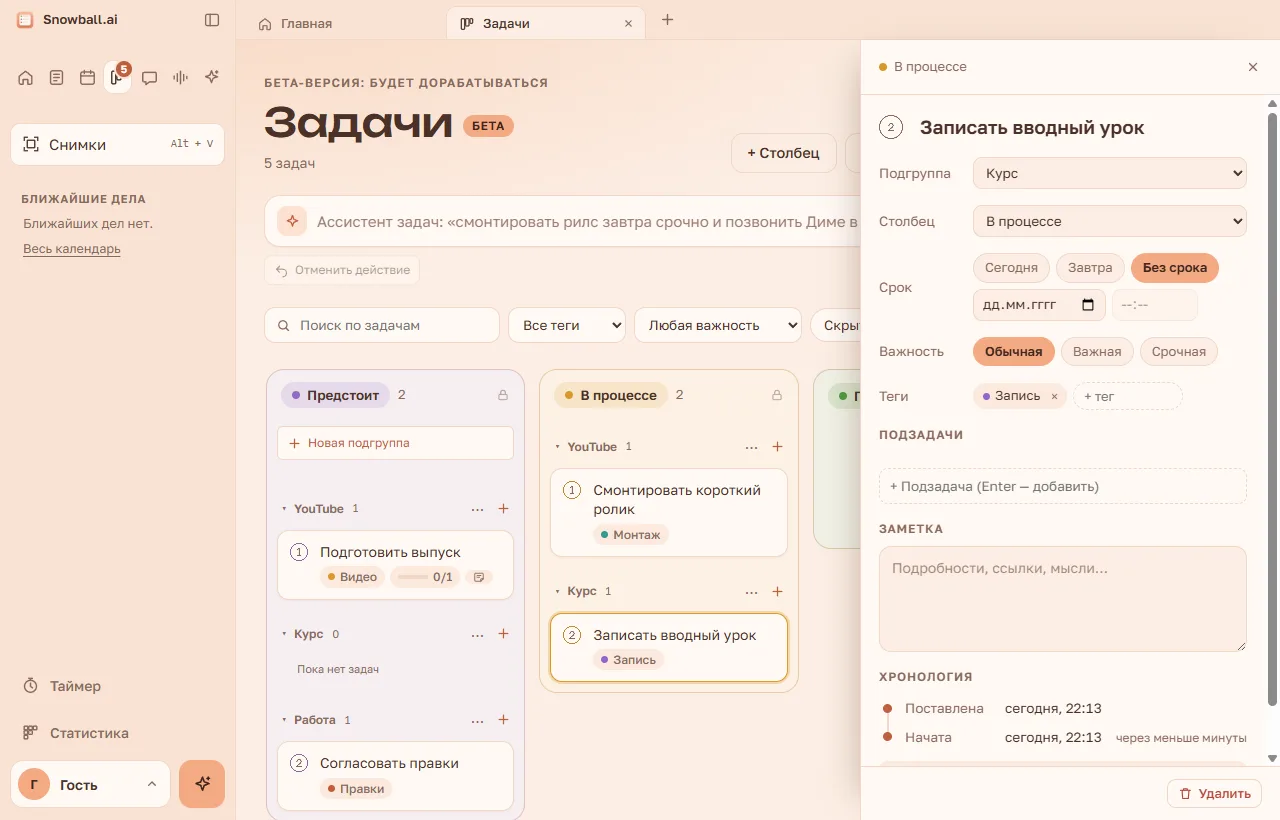
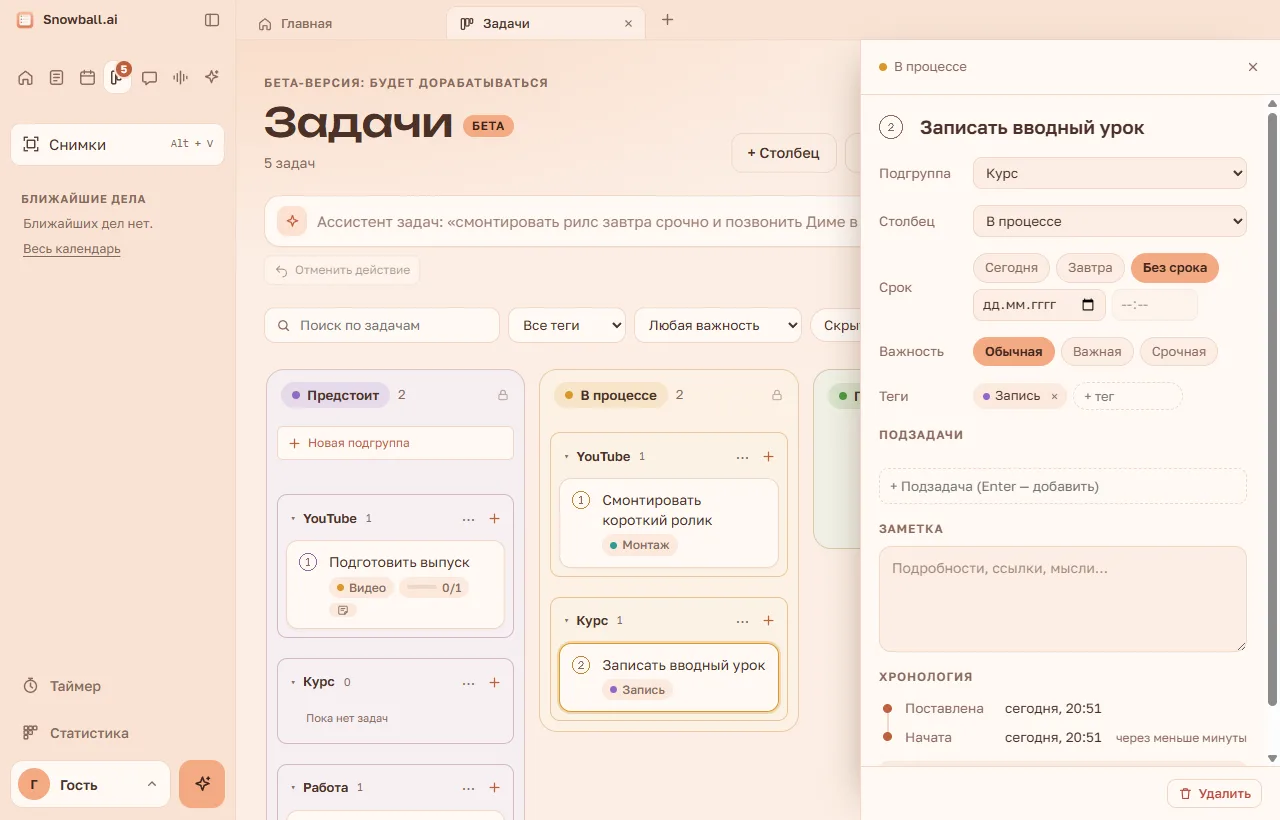
Версия 1.24.7: управление подгруппами задач

diff --git a/main.js b/main.js
@@ -1160,8 +1160,22 @@ function stubTasks(text, t) {
   }).join('\n') };
 }
 
+function stubGroupDelete(text) {
+  if (!/удал|убер/i.test(text) || !/подгрупп/i.test(text)) return null;
+  const match = /(?:удали(?:ть)?|убери(?:те)?)\s+подгрупп(?:у|ы)\s+[«"']?(.+?)[»"']?[.!?]*\s*$/i.exec(text);
+  if (!match) return { error: 'Укажите точное название: «удали подгруппу YouTube».' };
+  const name = match[1].replace(/[»"']+$/, '').trim();
+  const group = store.groupsView().find(g => g.name.toLocaleLowerCase('ru') === name.toLocaleLowerCase('ru'));
+  return group ? { group } : { error: 'Подгруппа с таким названием не найдена. Укажите точное название.' };
+}
 function stubAnswer(last) {
   const t = last.toLowerCase();
+  const deletion = stubGroupDelete(last);
+  if (deletion) {
+    if (deletion.error) return { text: deletion.error };
+    const r = runTool('task_group_delete', deletion.group);
+    return { text: r.output, action: r.action };
+  }
   if (/таймер|фокус/.test(t)) {
     if (/останов|выключ|стоп|отмени|сбрось|убери/.test(t)) {
       const was = timer.state;
@@ -1290,6 +1304,7 @@ const SYSTEM_PROMPT = [
   'Напоминание: если пользователь о нём не сказал, ставь remind 60 (за час) и одной короткой фразой сообщи, что напомнишь за час, а время напоминания можно поменять. Если просит другое — ставь как просит, «без напоминания» — 0. Даты считай от текущего момента из строки «Сейчас».',
   'Ещё у пользователя есть доска «Задачи». Столбцы: todo — «Предстоит», doing — «В процессе», done — «Готово» и, может быть, свои столбцы пользователя (их id и названия — в tasks_list). tasks_list показывает столбцы и все задачи, task_add добавляет, task_update меняет задачу или переносит в другой столбец, task_delete удаляет. Как и с календарём, изменения показываются карточкой, если результат так говорит. Название задачи — коротко, суть в нескольких словах, без слов про срок и срочность. Срок (due, YYYY-MM-DD) и время (time, HH:MM) ставь, только если их назвали. Важность priority: 2 — срочно, 1 — важно, 0 — обычно, если об этом не сказано. Теги — 1–2 коротких слова по смыслу, лучше из тех, что уже есть у задач. number — порядковый номер внутри своего столбца. В каждом столбце нумерация начинается с 1 и меняется после переносов и удаления. Идентичность задачи — её id, а не номер. При обращении по номеру учитывай исходный столбец (status); если номер встречается в нескольких столбцах, а исходный столбец не указан, обязательно уточни и ничего не меняй. Например: «перенеси задачу 2 из Предстоит в В процессе» — искать number=2, status=todo; doing здесь только назначение. Подзадачи могут иметь номера 1.1, 1.2. groups в tasks_list — подгруппы; groupId сохраняется при смене столбца, если пользователь не попросил поменять подгруппу. «Задача 3», «задача № 3», «задача номер 3», «№3», «#3» означают number=3, а не третью строку списка. Чтобы изменить или удалить задачу, сначала найди её id по number через tasks_list; для архивной задачи — tasks_archive_search с запросом «№ 3». Если номера нет, сообщи об этом, не выбирай похожую задачу.',
   'Есть таймер для фокуса: timer_start сразу запускает его на нужное число минут (от 1 до 240), timer_stop останавливает. Он не привязан к задачам и делам. Запустив, коротко скажи, во сколько он закончится.',
+  'По просьбе удалить подгруппу найди её точные id и название в groups через tasks_list и вызови task_group_delete. Удаляется подгруппа во всех столбцах, задачи и архив сохраняются без неё. Если название неоднозначно, уточни. Не удаляй задачи вместо подгруппы.',
   'Программа устроена как браузер: вверху вкладки. open_tabs сразу открывает нужные вкладки: home — «Главная», prompts — «Промты», calendar — «Календарь», tasks — «Задачи», llm — новый разговор в отдельной вкладке, transcribe — «Транскрибация» (текст, тайминги и субтитры из аудио и видео), generator — «Генератор» (картинки и видео, пока в разработке), stats — «Статистика». Если просят открыть, вызови open_tabs и коротко скажи, что открыл.',
   'На странице «Промты» есть вкладка «Скиллы»: там пользователь хранит скиллы — инструкции для ИИ-ассистентов (файл .md или архив .zip либо .skill). skills_list показывает их id, название и текущий тип; skill_read даёт сохранённый текст главного файла, состав архива и revision. Если пользователь просит перепроверить или изменить категорию уже сохранённого скилла, найди его через skills_list, прочитай через skill_read и только после этого вызови skill_set_type с тем же revision, подходящим типом и короткой причиной. Типы: static — картинки, video — видео, audio — звук, музыка и речь, text — тексты и сценарии, code — программирование и технические задачи. Если пользователь приложил новый файл скилла (в сообщении есть строка «ссылка для skill_add: …») и просит сохранить его («закинь в хранилище», «сохрани скилл»), прочитай файл и вызови skill_add: название — из name в файле или коротко по смыслу, тип — один из пяти перечисленных, описание — 5–6 простых предложений по-русски: что это за скилл, для чего, как работает и что внутри.',
   'Промты пользователя ты пока не видишь и сохранять не умеешь. Если об этом просят, скажи, что это появится позже, а пока промт можно скопировать кнопкой «Копировать» и добавить через «Добавить промт» в разделе «Промты».'
@@ -1393,6 +1408,11 @@ const TOOLS = [
     parameters: { type: 'object', additionalProperties: false, required: ['id'], properties: { id: { type: 'string', description: 'id задачи из tasks_list' } } }
   },
   {
+    name: 'task_group_delete',
+    description: 'Удаляет подгруппу во всех столбцах; задачи, в том числе архивные, сохраняются без подгруппы. Сначала найди её в groups через tasks_list.',
+    parameters: { type: 'object', additionalProperties: false, required: ['id', 'name'], properties: { id: { type: 'string', description: 'id подгруппы из tasks_list' }, name: { type: 'string', description: 'Точное название подгруппы из tasks_list' } } }
+  },
+  {
     name: 'open_tabs',
     description: 'Сразу открывает вкладки программы вверху окна. Если такая вкладка уже открыта, переключается на неё; llm каждый раз открывает новый разговор.',
     parameters: {
@@ -1490,6 +1510,11 @@ function runTool(name, input) {
     return { output: after('Удалить из календаря: ' + eventLine(event)), action: { kind: 'calendar-delete', title: event.title, event } };
   }
   if (name === 'tasks_list') return { output: tasksForModel() };
+  if (name === 'task_group_delete') {
+    const group = store.groupsView().find(g => g.id === a.id && g.name === a.name);
+    if (!group) return { output: 'Подгруппа не найдена или изменилась. Получи свежий список через tasks_list.', error: true };
+    return { output: after('Удалить подгруппу «' + group.name + '» во всех столбцах; задачи останутся без подгруппы'), action: { kind: 'group-delete', title: group.name, group } };
+  }
   if (name === 'skills_list') {
     const list = store.skillsView().map((s) => ({ id: s.id, title: s.title, type: s.type, file: s.file.name, desc: s.desc.slice(0, 300) }));
     return { output: list.length ? JSON.stringify(list) : 'Скиллов пока нет.' };
@@ -2217,6 +2242,7 @@ handle('task-delete', async (id) => { await store.deleteTask(id); return ok(); }
 handle('task-restore', async (t) => { await store.putTask(t); return ok(); });
 handle('task-group-add', async (name) => { const group = await store.addTaskGroup(name); return ok({ groupId: group.id }); });
 handle('task-group-rename', async (id, name, expectedName) => { await store.renameTaskGroup(id, name, expectedName); return ok(); });
+handle('task-group-delete', async (id, expectedName) => { await store.deleteTaskGroup(id, expectedName); return ok(); });
 // The user's own columns between «В процессе» and «Готово».
 handle('column-add', async (name) => { const col = await store.addColumn(name); return ok({ columnId: col.id }); });
 handle('column-rename', async (id, name) => { await store.renameColumn(id, name); return ok(); });
@@ -2253,6 +2279,7 @@ const TASKS_PROMPT = [
   'Название — суть в 2–6 словах, с большой буквы, без слов про срок и срочность. Срок (due, YYYY-MM-DD) и время (time, HH:MM) ставь, только если их назвали; даты считай от строки «Сейчас». Важность priority: 2 — срочно (срочно, горит, asap), 1 — важно, 0 — обычно, если ничего такого не сказано. Теги — 1–2 коротких слова по смыслу, лучше из тех, что уже есть у задач в tasks_list: «смонтировать рилс» → «Монтаж», «начать вёрстку сайта» → «Сайт».',
   'number — порядковый номер внутри своего столбца. В каждом столбце нумерация начинается с 1 и меняется после переносов и удаления. Идентичность задачи — её id, а не номер. При обращении по номеру учитывай исходный столбец (status); если номер встречается в нескольких столбцах, а исходный столбец не указан, обязательно уточни и ничего не меняй. Например: «перенеси задачу 2 из Предстоит в В процессе» — искать number=2, status=todo; doing здесь только назначение. Подзадачи могут иметь номера 1.1, 1.2. groups в tasks_list — подгруппы; groupId сохраняется при смене столбца, если пользователь не попросил поменять подгруппу. «Задача 3», «задача № 3», «задача номер 3», «№3», «#3» означают number=3, а не третью строку списка. Чтобы изменить, перенести, отметить или удалить задачу, сначала найди её id по number через tasks_list; если её нет на доске, проверь tasks_archive_search с запросом «№ 3». Если такого номера нет, сообщи об этом и ничего не меняй. Всегда получай свежий список перед действиями: номер меняется после переноса и удаления. «Сделал …», «готово …» — перенеси задачу в done. subtasks_add добавляет шаги внутри задачи («разбей … на шаги» — 3–6 конкретных шагов), subtask_done отмечает шаг, subtask_delete удаляет шаги (id шагов — в tasks_list).',
   'Выполненные задачи уходят в архив: tasks_list его не показывает. «Найди в архиве …», «что я делал на прошлой неделе» — tasks_archive_search. «Убери выполненные в архив», «очисти готово» — tasks_archive_done.',
+  'По просьбе удалить подгруппу найди её id и точное название в groups через tasks_list и вызови task_group_delete. Подгруппа исчезает во всех столбцах, задачи и архив сохраняются. При неоднозначном названии уточни. Не удаляй задачи вместо подгруппы.',
   'Если просят не про задачи (календарь, промты, вкладки), коротко скажи, что это умеет маленькое окно ассистента (звёздочка внизу слева) или раздел LLM.',
   'Ответ — одна-две короткие фразы по-русски без разметки: что сделано. Например: «Добавил 2 задачи: «Смонтировать рилс» на завтра, срочная; «Позвонить Диме» на пятницу.»'
 ].join('\n\n');
@@ -2260,6 +2287,7 @@ const sameTool = (name, description) => Object.assign({}, TOOLS.find((t) => t.na
 const TASK_TOOLS = [
   { name: 'tasks_move', description: 'Переносит выбранные задачи одним действием. Все id заранее возьми из одного tasks_list. null сохраняет столбец или подгруппу; пустой groupId убирает подгруппу.', parameters: { type: 'object', additionalProperties: false, required: ['ids', 'status', 'groupId'], properties: { ids: { type: 'array', items: { type: 'string' }, minItems: 1, maxItems: 500 }, status: { type: ['string', 'null'] }, groupId: { type: ['string', 'null'] } } } },
   sameTool('tasks_list'),
+  sameTool('task_group_delete'),
   sameTool('tasks_archive_search'),
   { name: 'tasks_archive_done', description: 'Убирает все задачи из «Готово» в архив.', parameters: { type: 'object', additionalProperties: false, required: [], properties: {} } },
   sameTool('task_add', 'Добавляет задачу на доску (сразу, без подтверждения).'),
@@ -2292,6 +2320,12 @@ async function runTaskTool(name, input, log) {
     return 'Перемещено задач: ' + result.tasks.length + '.';
   }
   if (name === 'tasks_list') return tasksForModel();
+  if (name === 'task_group_delete') {
+    const group = store.groupsView().find(g => g.id === a.id && g.name === a.name);
+    if (!group) return 'Подгруппа не найдена или изменилась. Получи свежий список через tasks_list.';
+    await store.deleteTaskGroup(group.id, group.name, log);
+    return 'Подгруппа «' + group.name + '» удалена во всех столбцах. Задачи и архив сохранены без подгруппы.';
+  }
   if (name === 'tasks_archive_search') return archiveForModel(a.query);
   if (name === 'tasks_archive_done') {
     const ids = await store.archiveDone(null, log);
@@ -2514,6 +2548,8 @@ async function numericTaskMove(text, log) {
 }
 async function stubTasksAssistant(text, log) {
   const low = ' ' + text.toLowerCase().replace(/ё/g, 'е') + ' ';
+  const deletion = stubGroupDelete(text);
+  if (deletion) return deletion.error || await runTaskTool('task_group_delete', deletion.group, log);
   let t;
   const refs = taskReferences(text);
   if (refs.length) {
@@ -3198,6 +3234,10 @@ async function applyAction(action) {
   if (action.kind === 'task-delete') {
     const gone = await store.deleteTask(action.task.id, JSON.stringify(action.task), changes);
     if (!gone) throw userError('Этой задачи уже нет на доске.');
+    return { undo: { tasks: changes }, extra: {} };
+  }
+  if (action.kind === 'group-delete') {
+    await store.deleteTaskGroup(action.group.id, action.group.name, changes);
     return { undo: { tasks: changes }, extra: {} };
   }
   if (action.kind === 'skill-add') {

diff --git a/src/app.js b/src/app.js
@@ -1428,6 +1428,7 @@
     else if (e.key === "ArrowDown" || e.key === "ArrowUp") { e.preventDefault(); items[(i + (e.key === "ArrowDown" ? 1 : -1) + items.length) % items.length].focus(); }
   });
   document.addEventListener("mousedown", function (e) {
+    if (!e.target.closest(".task-group-menu")) document.querySelectorAll(".task-group-pop:not([hidden])").forEach(function (menu) { menu.hidden = true; menu.parentElement.querySelector(".task-group-rename").setAttribute("aria-expanded", "false"); });
     if (!els.tabMenu.hidden && !els.tabMenu.contains(e.target) && !els.tabPlus.contains(e.target)) setTabMenu(false);
   });
   // The assistant asked to open tabs ("открой календарь и генератор"): all open, the first one is shown.
@@ -3283,6 +3284,11 @@
     return h("div", { class: "act-card" + (a.status && a.status !== "busy" ? " settled" : "") }, kids);
   }
   function actionCard(msg, a) {
+    if (a.kind === "group-delete") {
+      var kids = [h("div", { class: "act-head" }, icon("trash"), h("span", { text: "Удалить подгруппу «" + a.title + "»?" })), h("div", { class: "act-when", text: "Подгруппа исчезнет во всех столбцах. Задачи и архив сохранятся без подгруппы." })];
+      kids.push(cardFooter(msg, a, "Подгруппа удалена", "Отменено, подгруппа сохранена") || cardButtons(msg, a, "Удалить", true));
+      return h("div", { class: "act-card" + (a.status && a.status !== "busy" ? " settled" : "") }, kids);
+    }
     if (/^calendar-/.test(a.kind)) return calendarCard(msg, a);
     if (/^task-/.test(a.kind)) return taskCard(msg, a);
     if (a.kind === "skill-add") return skillCard(msg, a);
@@ -3312,7 +3318,7 @@
   }
   var DONE_TOASTS = {
     "calendar-add": "Дело «%» добавлено в календарь", "calendar-update": "Дело «%» изменено", "calendar-delete": "Дело «%» удалено",
-    "task-add": "Задача «%» добавлена", "task-update": "Задача «%» изменена", "task-delete": "Задача «%» удалена", "create-prompt": "Промт «%» добавлен",
+    "task-add": "Задача «%» добавлена", "task-update": "Задача «%» изменена", "task-delete": "Задача «%» удалена", "group-delete": "Подгруппа «%» удалена", "create-prompt": "Промт «%» добавлен",
     "skill-add": "Скилл «%» сохранён во вкладку «Скиллы»", "skill-set-type": "Категория скилла «%» изменена"
   };
   function decide(msg, a, accept) {
@@ -3411,6 +3417,7 @@
       : a.kind === "task-add" ? "Добавить задачу «" + t.title + "» в «" + colName(t.status) + "»"
       : a.kind === "task-update" ? "Изменить задачу «" + t.title + "»: столбец «" + colName(t.status) + "»"
       : a.kind === "task-delete" ? "Удалить задачу «" + t.title + "»"
+      : a.kind === "group-delete" ? "Удалить подгруппу «" + a.title + "», задачи сохранятся"
       : a.kind === "skill-add" ? "Сохранить скилл «" + a.title + "» во вкладку «Скиллы»"
       : a.kind === "skill-set-type" ? "Изменить категорию скилла «" + a.title + "» на «" + (skillType(a.category) || {}).label + "»"
       : "Создать промт «" + a.title + "»";
@@ -4593,11 +4600,7 @@
   function taskColumnGroups(status, all) {
     var groups = state.taskGroups.filter(function (g) {
       if (all.some(function (t) { return t.status === status && t.groupId === g.id; })) return true;
-      if (status !== "todo") return false;
-      // Keep new empty groups available, but hide finished groups from «Предстоит».
-      // Include archived tasks so archiving the last done task cannot bring an empty group back.
-      var tasks = state.tasks.filter(function (t) { return t.groupId === g.id; });
-      return !tasks.length || tasks.some(function (t) { return t.status !== "done"; });
+      return status === "todo";
     });
     all.forEach(function (t) { if (t.status === status && t.groupId && !groups.some(function (g) { return g.id === t.groupId; })) groups = groups.concat([{ id: t.groupId, name: "Подгруппа" }]); });
     if (!state.taskGroups.length || all.some(function (t) { return t.status === status && !t.groupId; })) groups = groups.concat([{ id: "", name: "Без подгруппы" }]);
@@ -4659,10 +4662,23 @@
     var fold = h("button", { type: "button", class: "task-group-fold", "aria-expanded": String(!collapsed), "aria-label": (collapsed ? "Развернуть " : "Свернуть ") + g.name, onclick: toggleGroup },
       h("span", { class: "task-group-arrow", "aria-hidden": "true", text: collapsed ? "▸" : "▾" }),
       h("span", { class: "task-group-name", text: g.name }));
+    var groupMenu = null;
+    if (g.id && state.taskGroups.some(function (x) { return x.id === g.id; })) {
+      var menu = h("div", { class: "tcol-pop task-group-pop", role: "menu", hidden: true });
+      var more = h("button", { type: "button", class: "task-group-rename", title: "Действия с подгруппой", "aria-label": "Действия с подгруппой «" + g.name + "»", "aria-haspopup": "menu", "aria-expanded": "false", onclick: function (e) { e.stopPropagation(); menu.hidden = !menu.hidden; more.setAttribute("aria-expanded", String(!menu.hidden)); } }, "⋯");
+      var rename = h("button", { type: "button", role: "menuitem", onclick: function () { tb.groupForm = { id: g.id, name: g.name, expectedName: g.name }; renderTasks(); } }, icon("pencil"), "Переименовать");
+      var remove = h("button", { type: "button", role: "menuitem", class: "danger", onclick: function () {
+        menu.replaceChildren(h("p", { class: "task-group-confirm", text: "Удалить подгруппу во всех столбцах? Задачи останутся без подгруппы, в том числе в архиве." }),
+          h("button", { type: "button", class: "danger", onclick: function () { call(api.taskGroupDelete(g.id, g.name)).then(function (r) { if (r) { render(); toast("Подгруппа удалена, задачи сохранены"); } }); } }, "Удалить"),
+          h("button", { type: "button", onclick: function () { menu.hidden = true; more.setAttribute("aria-expanded", "false"); menu.replaceChildren(rename, remove); } }, "Отмена"));
+      } }, icon("trash"), "Удалить подгруппу");
+      menu.append(rename, remove);
+      groupMenu = h("div", { class: "task-group-menu" }, more, menu);
+    }
     var head = h("div", { class: "task-group-head" },
       fold,
       h("span", { class: "task-group-count", text: String(list.length) }),
-      g.id && state.taskGroups.some(function (x) { return x.id === g.id; }) ? h("button", { type: "button", class: "task-group-rename", title: "Переименовать подгруппу во всех столбцах", "aria-label": "Переименовать " + g.name, onclick: function () { tb.groupForm = { id: g.id, name: g.name, expectedName: g.name }; renderTasks(); } }, "⋯") : null,
+      groupMenu,
       h("button", { type: "button", class: "task-group-plus", title: "Новая задача в «" + g.name + "»", "aria-label": "Новая задача в «" + g.name + "»", onclick: function () { tb.folded.delete(key); tb.adding = status; tb.addingGroup = g.id; tb.focus = true; renderTasks(); } }, icon("plus")));
     var box = h("section", { class: "task-group" + (!list.length ? " empty-group" : ""), "data-group": g.id }, head);
     if (!collapsed) { body = groupBody(); box.append(body); }

diff --git a/storage.js b/storage.js
@@ -963,6 +963,21 @@ class Store {
       group.name = name; await this.writeTasks(); return group;
     });
   }
+  deleteTaskGroup(id, expectedName, undoLog) {
+    return this.runLists(['tasks', 'columns', 'archiveMode'], async function () {
+      const group = this.taskGroups.find(g => g.id === id);
+      if (!group || expectedName !== undefined && group.name !== expectedName) throw Object.assign(new Error('group changed'), { userMessage: 'Подгруппа изменилась в другом окне. Обновите доску.' });
+      const index = this.taskGroups.findIndex(g => g.id === id);
+      const changed = this.tasks.filter(t => t.groupId === id).map(t => structuredClone(t));
+      this.taskGroups = this.taskGroups.filter(g => g.id !== id);
+      this.tasks.forEach(t => { if (t.groupId === id) t.groupId = ''; });
+      await this.writeTasks();
+      if (undoLog) {
+        undoLog.push({ id: 'group:' + id, before: { ...group, index }, after: null });
+        changed.forEach(t => recordUndoChange(undoLog, t, this.findTask(t.id)));
+      }
+    });
+  }
   taskNumber(id) { return this.tasksView().find(t => t.id === id)?.number ?? null; }
   findTasksByNumber(number, status, archived = false) {
     return this.tasksView().filter(t => String(t.number) === String(number) && !!t.archivedAt === archived && (!status || t.status === status));
@@ -1125,16 +1140,23 @@ class Store {
   restoreTaskChanges(batches) {
     return this.runLists(['tasks'], async function () {
       for (const changes of batches) {
-        const removedIds = new Set(changes.filter(change => !change.before).map(change => change.id));
-        const changedIds = new Set(changes.map(change => change.id));
+        const groups = changes.filter(change => change.id.startsWith('group:'));
+        const taskChanges = changes.filter(change => !change.id.startsWith('group:'));
+        for (const { before, after } of groups) {
+          const current = this.taskGroups.find(g => g.id === (before || after).id) || null;
+          if (!isDeepStrictEqual(current, after) || (before && this.taskGroups.some(g => g.name.toLocaleLowerCase('ru') === before.name.toLocaleLowerCase('ru')))) throw undoConflict();
+        }
+        const removedIds = new Set(taskChanges.filter(change => !change.before).map(change => change.id));
+        const changedIds = new Set(taskChanges.map(change => change.id));
         if (removedIds.size && (
           this.tasks.some(t => removedIds.has(t.parentId) && !changedIds.has(t.id)) ||
-          changes.some(change => removedIds.has(change.before?.parentId))
+          taskChanges.some(change => removedIds.has(change.before?.parentId))
         )) throw undoConflict();
-        for (const { id, before, after } of changes) {
+        for (const { id, before, after } of taskChanges) {
           if (!isDeepStrictEqual(this.findTask(id), after) || (before && !this.hasColumn(before.status))) throw undoConflict();
         }
-        for (const change of changes) {
+        for (const change of groups) if (change.before) this.taskGroups.splice(Math.min(change.before.index, this.taskGroups.length), 0, { id: change.before.id, name: change.before.name });
+        for (const change of taskChanges) {
           this.tasks = this.tasks.filter(t => t.id !== change.id);
           if (change.before) this.tasks.push(structuredClone(change.before));
         }
@@ -1500,7 +1522,8 @@ class Store {
         records[kind + ':' + item.id] = value;
       }
     }
-    if (this.columns.length || this.taskGroups.length || this.archiveMode !== 'day') records['config:tasks'] = { columns: this.columns, groups: this.taskGroups, archiveMode: this.archiveMode };
+    // Keep an explicit empty group list: a missing record cannot communicate deletion of the last group.
+    records['config:tasks'] = { columns: this.columns, groups: this.taskGroups, archiveMode: this.archiveMode };
     if (this.profile.name || this.profile.avatarAt) records['config:profile'] = this.profile;
     for (const [day, counts] of Object.entries(this.activity.days)) records['activity:' + day] = counts;
     return structuredClone(records);

diff --git a/src/styles.css b/src/styles.css
@@ -1498,7 +1498,7 @@ h1 .brand { color: var(--accent-strong); }
 .tchk.numbered.on { color: var(--surface); }
 .tchk.numbered.big { width: 24px; height: 24px; }
 .tchk.numbered canvas { display: block; }
-.task-group { margin-top: 12px; }
+.task-group { margin-top: 12px; padding: 8px; border: 1px solid color-mix(in srgb, var(--c) 28%, var(--line)); border-radius: 10px; background: color-mix(in srgb, var(--c) 7%, var(--surface)); }
 .task-group.drop-group { outline: 2px dashed var(--accent-strong); outline-offset: 4px; border-radius: 6px; }
 .task-group.empty-group.drop-group .task-group-empty { color: var(--accent-strong); font-size: 0; }
 .task-group.empty-group.drop-group .task-group-empty::after { content: "Переместить в эту подгруппу"; font-size: 12px; }
@@ -1506,15 +1506,18 @@ h1 .brand { color: var(--accent-strong); }
 .task-group-body.folding { overflow: clip; }
 .task-group-body > .task { margin-top: 7px; }
 .task-group-body > .task:first-child { margin-top: 2px; }
-.task-group-head { display: flex; align-items: center; gap: 6px; min-height: 26px; margin-bottom: 5px; }
-.task-group-name { font-size: 12px; font-weight: 600; overflow-wrap: anywhere; }
+.task-group-head { display: flex; align-items: center; gap: 6px; min-height: 30px; margin-bottom: 5px; }
+.task-group-name { color: var(--ink); font-size: 13px; font-weight: 650; overflow-wrap: anywhere; }
 .task-group-count { font-size: 11px; color: var(--ink-soft); }
 .task-group-fold, .task-group-plus, .task-group-rename { border: 0; background: transparent; color: var(--ink-soft); padding: 3px; display: inline-flex; align-items: center; justify-content: center; cursor: pointer; border-radius: 4px; }
 .task-group-fold { gap: 6px; text-align: left; font: inherit; }
 .task-group-arrow { width: 8px; flex: none; font-size: 10px; }
-.task-group-rename { margin-left: auto; }
+.task-group-menu { position: relative; margin-left: auto; }
+.task-group-pop { z-index: 20; min-width: 220px; }
+.task-group-pop[hidden] { display: none; }
+.task-group-confirm { margin: 6px 10px; color: var(--ink); font-size: 12px; line-height: 1.4; }
 .task-group-plus { margin-left: auto; color: var(--accent-strong); }
-.task-group-rename + .task-group-plus { margin-left: 0; }
+.task-group-menu + .task-group-plus { margin-left: 0; }
 .task-group-plus .ico { width: 15px; height: 15px; }
 .task-group-plus svg, .task-group-add svg { width: 15px; height: 15px; flex: none; }
 .task-group-plus:hover, .task-group-rename:hover { background: var(--surface); }

diff --git a/tools/guide-shots/text-1.23.0.js b/tools/guide-shots/text-1.23.0.js
@@ -1,7 +1,7 @@
 'use strict';
-module.exports = { version: '1.23.0', updated: '1.23.3', section: 'tasks', title: 'Задачи: подгруппы, номера и отмена', news: 'подгруппы, номера задач и отмена последних действий ассистента', steps: [
+module.exports = { version: '1.23.0', updated: '1.24.7', section: 'tasks', title: 'Задачи: подгруппы, номера и отмена', news: 'подгруппы, номера задач и отмена последних действий ассистента', steps: [
   { title: 'Разделите задачи на подгруппы', lead: '«Предстоит», «В процессе» и «Готово» — этапы работы. Внутри них можно держать подгруппы «YouTube», «Курс», «Работа» и свои категории.', frames: [{ shot: '01-board', points: [
-    { box: 'add', at: [620, 410], label: 'Новая подгруппа', text: 'Кнопка находится наверху «Предстоит». Введите название и сохраните. Подгруппы можно свернуть стрелкой; «⋯» рядом с названием позволяет переименовать подгруппу во всех столбцах.' },
+    { box: 'add', at: [620, 410], label: 'Новая подгруппа', text: 'Кнопка находится наверху «Предстоит». Нажмите на название или стрелку, чтобы свернуть подгруппу. Через «⋯» можно переименовать или удалить её во всех столбцах; задачи и архив при удалении сохраняются без подгруппы. Пустая подгруппа остаётся в «Предстоит».' },
     { box: 'numbers', at: [800, 560], label: 'Номер в кружке', text: 'В каждом столбце нумерация начинается с 1. Нажатие на кружок отмечает задачу готовой; повторное возвращает её в работу.' }
   ] }] },
   { title: 'Создайте подгруппу', lead: 'Укажите короткое название категории: например, «Личное» или название проекта.', frames: [{ shot: '02-group-form', points: [

diff --git a/src/guides/1.23.0/boxes.js b/src/guides/1.23.0/boxes.js
@@ -1,3 +1,3 @@
 // Made by tools/guide-shots/run.js: where the buttons are on each screenshot of this guide (pixels of 1280 × 820).
 window.GUIDE_BOXES = window.GUIDE_BOXES || {};
-window.GUIDE_BOXES["1.23.0"] = {"01-board":{"groups":[277,494,237,105],"add":[277,426,237,34],"plus":[493,498,21,21],"numbers":[563,481,18,18]},"02-group-form":{"name":[277,426,237,36],"save":[277,469,91,29]},"03-add-task":{"input":[277,725,237,64],"plus":[493,623,21,21]},"04-move":{"group":[550,577,237,105],"number":[563,626,18,18]},"05-assistant":{"input":[317,202,712,38],"source":[563,481,18,18],"send":[1193,202,38,38]},"06-details":{"group":[973,157,274,32],"column":[879,157,368,32],"number":[879,115,24,24]},"07-context":{"menu":[347,549,250,226],"columns":[731,133,106,39]},"08-nested":{"children":[879,455,368,34],"counter":[320,566,181,21]},"09-detach":{"detach":[879,156,368,29]},"10-undo":{"undo":[264,255,156,30],"result":[879,648,381,152]}};
+window.GUIDE_BOXES["1.23.0"] = {"01-board":{"groups":[277,494,237,144],"add":[277,426,237,34],"plus":[484,508,21,21],"numbers":[572,491,18,18]},"02-group-form":{"name":[277,426,237,36],"save":[277,469,91,29]},"03-add-task":{"input":[286,774,219,64],"plus":[484,672,21,21]},"04-move":{"group":[550,597,237,125],"number":[572,656,18,18]},"05-assistant":{"input":[317,202,712,38],"source":[572,491,18,18],"send":[1193,202,38,38]},"06-details":{"group":[973,157,274,32],"column":[879,157,368,32],"number":[879,115,24,24]},"07-context":{"menu":[356,560,250,226],"columns":[731,133,106,39]},"08-nested":{"children":[879,455,368,34],"counter":[329,577,163,40]},"09-detach":{"detach":[879,156,368,29]},"10-undo":{"undo":[264,255,156,30],"result":[879,648,381,152]}};

diff --git a/src/guides/guides.js b/src/guides/guides.js
@@ -29,7 +29,7 @@ window.GUIDES = [
   ] },
   {
     "version": "1.23.0",
-    "updated": "1.24.5",
+    "updated": "1.24.7",
     "section": "tasks",
     "title": "Задачи: подгруппы, номера и отмена",
     "news": "подгруппы, номера задач и отмена последних действий ассистента",
@@ -48,7 +48,7 @@ window.GUIDES = [
                   410
                 ],
                 "label": "Новая подгруппа",
-                "text": "Кнопка находится наверху «Предстоит». Введите название и сохраните. Нажмите на название или стрелку, чтобы свернуть подгруппу; «⋯» позволяет переименовать её во всех столбцах."
+                "text": "Кнопка находится наверху «Предстоит». Нажмите на название или стрелку, чтобы свернуть подгруппу. Через «⋯» можно переименовать или удалить её во всех столбцах; задачи и архив при удалении сохраняются без подгруппы. Пустая подгруппа остаётся в «Предстоит»."
               },
               {
                 "box": "numbers",

diff --git a/cloud-sync.js b/cloud-sync.js
@@ -14,9 +14,9 @@ function mergeTaskConfig(local, remote, base) {
   if (!local?.value || !remote?.value || local.assets?.length || remote.assets?.length) return null;
   const a = local.value, b = remote.value, previous = base?.value;
   const same = (x, y) => stable(x) === stable(y);
-  const choose = (x, y, old) => same(x, y) ? x : previous && same(x, old) ? y : previous && same(y, old) ? x : undefined;
-  const columns = choose(a.columns || [], b.columns || [], previous?.columns || []);
-  const archiveMode = choose(a.archiveMode || 'day', b.archiveMode || 'day', previous?.archiveMode || 'day');
+  const choose = (x, y, old, fallback) => same(x, y) ? x : previous && same(x, old) ? y : previous && same(y, old) ? x : !previous && same(x, fallback) ? y : !previous && same(y, fallback) ? x : undefined;
+  const columns = choose(a.columns || [], b.columns || [], previous?.columns || [], []);
+  const archiveMode = choose(a.archiveMode || 'day', b.archiveMode || 'day', previous?.archiveMode || 'day', 'day');
   if (columns === undefined || archiveMode === undefined) return null;
   // An older app that does not know groups cannot delete them by omitting the field.
   if ((a.groups !== undefined && !Array.isArray(a.groups)) || (b.groups !== undefined && !Array.isArray(b.groups))) return null;

diff --git a/preload.js b/preload.js
@@ -111,6 +111,7 @@ contextBridge.exposeInMainWorld('vsApi', {
   taskRestore: (t) => ipcRenderer.invoke('task-restore', t),
   taskGroupAdd: (name) => ipcRenderer.invoke('task-group-add', name),
   taskGroupRename: (id, name, expectedName) => ipcRenderer.invoke('task-group-rename', id, name, expectedName),
+  taskGroupDelete: (id, expectedName) => ipcRenderer.invoke('task-group-delete', id, expectedName),
   columnAdd: (name) => ipcRenderer.invoke('column-add', name),
   columnRename: (id, name) => ipcRenderer.invoke('column-rename', id, name),
   columnMove: (id, dir) => ipcRenderer.invoke('column-move', id, dir),

diff --git a/AGENTS.md b/AGENTS.md
@@ -179,10 +179,12 @@
 
 ## Подгруппы задач (1.23.0)
 - `cloud-sync.js` объединяет совместимые изменения `config:tasks`: подгруппы по id, независимые переименования по `base[key].payload` (сохраняется только для настроек доски). Старые checkpoint с одним hash поддерживаются; совместимые сохранённые конфликты повторно объединяются. Настройки доски применяются перед задачами. Одновременное разное переименование одного id остаётся конфликтом. Регрессии: `tools/cloud-sync.test.cjs`; `npm test` запускается на Windows через `.github/workflows/tests.yml` при push/PR.
-- `groups: [{id,name}]` в tasks.json и `groupId` у задачи. Добавление/переименование: Store.addTaskGroup/renameTaskGroup, IPC task-group-add/task-group-rename, preload.taskGroupAdd/taskGroupRename. Свежие groups приходят во все окна как taskGroups. Операции атомарные, переименование проверяет expectedName. Смена столбца сохраняет groupId; группы столбца выводятся по задачам, а в todo доступны новые пустые группы и группы с невыполненными задачами. Когда все задачи группы в «Готово» (включая архив), её пустой блок в «Предстоит» скрывается; возврат задачи восстанавливает блок с прежним id. Фильтры этого не меняют. Проверка: tools/task-lifecycle-smoke.cjs. Legacy-задачи остаются в «Без подгруппы». Конфигурация групп синхронизируется через config:tasks и входит в резервные копии; старый облачный config без groups не очищает существующие группы.
+- `groups: [{id,name}]` в tasks.json и `groupId` у задачи. Добавление/переименование: Store.addTaskGroup/renameTaskGroup, IPC task-group-add/task-group-rename, preload.taskGroupAdd/taskGroupRename. Свежие groups приходят во все окна как taskGroups. Операции атомарные, переименование проверяет expectedName. Смена столбца сохраняет groupId; группы столбца выводятся по задачам, а в todo доступны все группы, включая пустые и полностью выполненные. Фильтры этого не меняют. Проверка: tools/task-lifecycle-smoke.cjs. Legacy-задачи остаются в «Без подгруппы». Конфигурация групп синхронизируется через config:tasks и входит в резервные копии; старый облачный config без groups не очищает существующие группы.
 - Общий порядок: группы в порядке создания, затем «Без подгруппы»; внутри — order, createdAt, id. Нумерация и инструменты используют один и тот же порядок. Кружки рисуются из реальных пикселей цифры; скрытые элементы пропускаются, чтобы не зацикливать наблюдение за DOM. Проверки старых вложений и столбцов: tools/task-nesting-smoke.cjs, tools/task-columns-smoke.cjs. Инструкция: src/guides/1.23.0, сценарий tools/guide-shots/shots-1.23.0.js, тексты tools/guide-shots/text-1.23.0.js.
 
 - С 1.23.1 drop на заголовок, пустое место или карточку подгруппы назначает её groupId (в том числе из «Без подгруппы»); drop в пустое место столбца сохраняет прежнюю категорию. Структурный перенос проверяет expectedFields.groupId, свёрнутая подгруппа раскрывается. Смена категории родителя переносит категорию его вложенных задач, которые относятся к прежней группе; Store.putTask также возвращает категории потомков при отмене. Регрессия: tools/task-group-drop-smoke.cjs (исходники или app.asar вторым аргументом).
 - С 1.23.2 taskReferenceSelection понимает диапазоны «с 6-й по 9-ю», «6-9» и списки «6, 8 и 9». numericTaskMove обрабатывает явные переносы по номерам до вызова модели; resolveTaskSelection фиксирует все id по одному снимку номеров и уточняет столбец при неоднозначности. Store.moveTasks записывает весь перенос один раз, сохраняет остальные поля и возвращает снимки для отмены, включая потомков. Модель использует tasks_move со всеми id сразу. Проверки: tools/task-numbers.test.cjs, tools/task-range-smoke.cjs (исходники или app.asar вторым аргументом).
 - С 1.23.3 task-undo.js хранит последние 20 действий ассистента задач до закрытия программы; taskHistory.run последовательно исполняет запросы и отмены. Кнопка #task-undo под полем ассистента, команды «Отмени последнее действие» / «Отмени последние 2 действия». История общая для окон, taskUndo входит в ok/sync. Записи содержат before/after всех затронутых задач, включая потомков; Store.restoreTaskChanges проверяет after и возвращает весь пакет одним сохранением, без перезаписи позднейших правок. Отмены идут строго с последней; ошибка не удаляет историю. numericTaskMove перечисляет исходные номера/названия, а не номера после переноса. Проверки: tools/task-undo.test.cjs и task-range-smoke.cjs, инструкция 1.23.0 updated 1.23.3 (10 шагов).
+- С 1.24.7 пустые подгруппы всегда видны в «Предстоит», у каждой отдельный фон и рамка. «⋯» открывает меню переименования и удаления с подтверждением; удаление убирает категорию во всех столбцах, сохраняя активные и архивные задачи. Ассистенты понимают task_group_delete, а отмена восстанавливает категорию и задачи одной записью с проверкой конфликтов. Проверки: tools/task-undo.test.cjs, tools/task-numbers.test.cjs, tools/task-lifecycle-smoke.cjs.
+- С 1.24.7 `config:tasks` отправляется даже при пустом списке групп: удаление последней группы передаётся явно вместо пустой записи и не оставляет старые группы на других устройствах. При первом объединении значения по умолчанию уступают заполненным настройкам; независимые каталоги объединяются. Проверки: tools/cloud-sync.test.cjs.
 - При смене столбца Store.moveTaskChildren переносит потомков из прежнего столбца родителя вместе с ним на всех уровнях вложенности (saveTask, moveTasks, putTask); потомки в другом статусе сохраняют его. Иначе они появляются отдельными карточками в старом столбце, хотя остаются в панели родителя. Категория переносится независимо от статуса; даты начала/выполнения нормализуются. Проверки: tools/task-nesting.test.cjs и tools/task-nesting-smoke.cjs.

diff --git a/CHANGELOG.md b/CHANGELOG.md
@@ -1,5 +1,13 @@
 # Что нового в Snowball.ai
 
+## 1.24.7
+
+### Подгруппы задач
+- Подгруппы выделены отдельными блоками и остаются в «Предстоит», даже когда все задачи выполнены или отправлены в архив.
+- Чтобы удалить подгруппу, нажмите «⋯» → «Удалить подгруппу» и подтвердите. Задачи сохранятся без подгруппы, в том числе в архиве.
+- Ассистенту можно написать, например, «Удали подгруппу YouTube». Его действие можно отменить.
+- Исправлена синхронизация удаления последней подгруппы: на других устройствах она больше не должна оставаться из-за пустых настроек доски.
+
 ## 1.24.6
 
 ### Задачи
